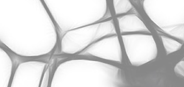
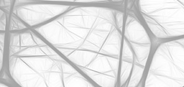
updated image

diff --git a/Burning Wheel/Burning Wheel.css b/Burning Wheel/Burning Wheel.css
@@ -1493,9 +1493,9 @@ textarea, select, .uneditable-input {
 }
 
 input[type=checkbox].sheet-emotion-bg-toggle:checked ~ .sheet-emotion-bg {
-    background-image: url(https://raw.githubusercontent.com/Roll20/roll20-character-sheets/master/Burning%20Wheel/img/burning_wheel.png);
+    background-image: url(https://raw.githubusercontent.com/aureyia/roll20-character-sheets/bw-custom-sheet/Burning%20Wheel/img/synapse.png);
 }
 
 .sheet-emotion-hidden {
-    opacity: 0;
+    display: none;
 }
